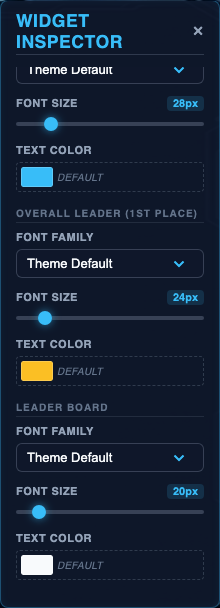
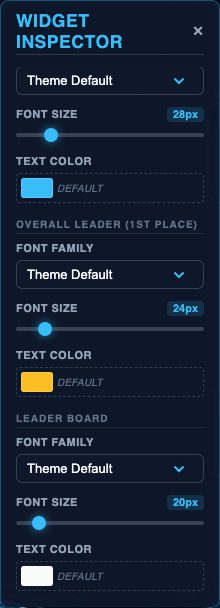
Added decimal control for the leader board widget

diff --git a/client/src/app/components/ui-editor/widget-inspector-fields/leaderboard-inspector/testing/leaderboard-inspector.harness.ts b/client/src/app/components/ui-editor/widget-inspector-fields/leaderboard-inspector/testing/leaderboard-inspector.harness.ts
@@ -21,15 +21,26 @@ export class LeaderboardInspectorHarness
     LeaderboardInspectorHarnessBase.selectors.resetButtons,
   );
 
+  async getDecimalPlaces(): Promise<number> {
+    const selects = await this.getSelects();
+    return Number(await selects[0].getProperty("value"));
+  }
+
+  async setDecimalPlaces(val: number): Promise<void> {
+    const selects = await this.getSelects();
+    await selects[0].sendKeys(val.toString());
+    await selects[0].dispatchEvent("change");
+  }
+
   async getTitleFontFamily(): Promise<string> {
     const selects = await this.getSelects();
-    return await selects[0].getProperty("value");
+    return await selects[1].getProperty("value");
   }
 
   async setTitleFontFamily(val: string): Promise<void> {
     const selects = await this.getSelects();
-    await selects[0].sendKeys(val);
-    await selects[0].dispatchEvent("change");
+    await selects[1].sendKeys(val);
+    await selects[1].dispatchEvent("change");
   }
 
   async getTitleFontSize(): Promise<number> {
@@ -64,13 +75,13 @@ export class LeaderboardInspectorHarness
 
   async getOverallLeaderFontFamily(): Promise<string> {
     const selects = await this.getSelects();
-    return await selects[1].getProperty("value");
+    return await selects[2].getProperty("value");
   }
 
   async setOverallLeaderFontFamily(val: string): Promise<void> {
     const selects = await this.getSelects();
-    await selects[1].sendKeys(val);
-    await selects[1].dispatchEvent("change");
+    await selects[2].sendKeys(val);
+    await selects[2].dispatchEvent("change");
   }
 
   async getOverallLeaderFontSize(): Promise<number> {
@@ -107,13 +118,13 @@ export class LeaderboardInspectorHarness
 
   async getRestFontFamily(): Promise<string> {
     const selects = await this.getSelects();
-    return await selects[2].getProperty("value");
+    return await selects[3].getProperty("value");
   }
 
   async setRestFontFamily(val: string): Promise<void> {
     const selects = await this.getSelects();
-    await selects[2].sendKeys(val);
-    await selects[2].dispatchEvent("change");
+    await selects[3].sendKeys(val);
+    await selects[3].dispatchEvent("change");
   }
 
   async getRestFontSize(): Promise<number> {

diff --git a/client/src/app/components/ui-editor/widget-inspector-fields/leaderboard-inspector/testing/leaderboard-inspector.harness.e2e.ts b/client/src/app/components/ui-editor/widget-inspector-fields/leaderboard-inspector/testing/leaderboard-inspector.harness.e2e.ts
@@ -25,12 +25,21 @@ export class LeaderboardInspectorHarnessE2e implements LeaderboardInspectorHarne
     return this.locator.locator(this.base.selectors.resetButtons);
   }
 
+  async getDecimalPlaces(): Promise<number> {
+    const val = await this.selects.nth(0).inputValue();
+    return Number(val);
+  }
+
+  async setDecimalPlaces(val: number): Promise<void> {
+    await this.selects.nth(0).selectOption({ value: val.toString() });
+  }
+
   async getTitleFontFamily(): Promise<string> {
-    return await this.selects.nth(0).inputValue();
+    return await this.selects.nth(1).inputValue();
   }
 
   async setTitleFontFamily(val: string): Promise<void> {
-    await this.selects.nth(0).selectOption({ label: val });
+    await this.selects.nth(1).selectOption({ label: val });
   }
 
   async getTitleFontSize(): Promise<number> {
@@ -55,11 +64,11 @@ export class LeaderboardInspectorHarnessE2e implements LeaderboardInspectorHarne
   }
 
   async getOverallLeaderFontFamily(): Promise<string> {
-    return await this.selects.nth(1).inputValue();
+    return await this.selects.nth(2).inputValue();
   }
 
   async setOverallLeaderFontFamily(val: string): Promise<void> {
-    await this.selects.nth(1).selectOption({ label: val });
+    await this.selects.nth(2).selectOption({ label: val });
   }
 
   async getOverallLeaderFontSize(): Promise<number> {
@@ -89,11 +98,11 @@ export class LeaderboardInspectorHarnessE2e implements LeaderboardInspectorHarne
   }
 
   async getRestFontFamily(): Promise<string> {
-    return await this.selects.nth(2).inputValue();
+    return await this.selects.nth(3).inputValue();
   }
 
   async setRestFontFamily(val: string): Promise<void> {
-    await this.selects.nth(2).selectOption({ label: val });
+    await this.selects.nth(3).selectOption({ label: val });
   }
 
   async getRestFontSize(): Promise<number> {

diff --git a/client/src/app/components/ui-editor/widget-inspector-fields/leaderboard-inspector/leaderboard-inspector.component.html b/client/src/app/components/ui-editor/widget-inspector-fields/leaderboard-inspector/leaderboard-inspector.component.html
@@ -1,4 +1,22 @@
 @if (settings()) {
+  <!-- Decimal Places -->
+  <div class="inspector-section">
+    <label class="inspector-label">{{
+      "UE_INSPECTOR_DECIMAL_PLACES" | translate
+    }}</label>
+    <div class="select-container select-sm">
+      <select
+        [(ngModel)]="settings().decimalPlaces"
+        (change)="onSettingsChange()"
+      >
+        <option [value]="0">0</option>
+        <option [value]="1">1</option>
+        <option [value]="2">2</option>
+        <option [value]="3">3</option>
+      </select>
+    </div>
+  </div>
+
   <!-- Title Section -->
   <div class="inspector-geometry-title">
     {{ "UE_INSPECTOR_LEADERBOARD_TITLE" | translate }}

diff --git a/client/src/app/components/ui-editor/widget-inspector-fields/leaderboard-inspector/leaderboard-inspector.component.spec.ts b/client/src/app/components/ui-editor/widget-inspector-fields/leaderboard-inspector/leaderboard-inspector.component.spec.ts
@@ -28,6 +28,7 @@ describe("LeaderboardInspectorComponent", () => {
 
     // Set required input
     fixture.componentRef.setInput("settings", {
+      decimalPlaces: 3,
       titleFontFamily: "",
       titleFontSize: 18,
       titleTextColor: "",
@@ -72,8 +73,17 @@ describe("LeaderboardInspectorComponent", () => {
   });
 
   it("should trigger loadLocalFonts on font service when select element is focused", () => {
-    const selectEl = fixture.nativeElement.querySelector("select");
+    const selectEl = fixture.nativeElement.querySelectorAll("select")[1];
     selectEl.dispatchEvent(new Event("focus"));
     expect(fontServiceSpy.loadLocalFonts).toHaveBeenCalled();
+  });
+
+  it("should bind decimalPlaces and emit change on selection", () => {
+    const selectEl = fixture.nativeElement.querySelectorAll("select")[0];
+    selectEl.value = "2";
+    selectEl.dispatchEvent(new Event("change"));
+    fixture.detectChanges();
+    expect(Number(component.settings().decimalPlaces)).toBe(2);
+    expect(changeSpy).toHaveBeenCalled();
   });
 });

diff --git a/client/src/app/components/raceday/components/raceday-leaderboard/raceday-leaderboard.component.ts b/client/src/app/components/raceday/components/raceday-leaderboard/raceday-leaderboard.component.ts
@@ -32,6 +32,11 @@ export class RacedayLeaderboardComponent {
   }
 
   getLeaderboardScoreFormat(entry: any): string {
+    const customDecimals = this.widget()?.customSettings?.["decimalPlaces"];
+    if (customDecimals !== undefined && customDecimals !== null) {
+      const d = Math.min(3, Math.max(0, Number(customDecimals)));
+      return `1.${d}-${d}`;
+    }
     if (!entry) return "1.0-0";
     if (entry.isTime !== undefined) {
       return entry.isTime ? "1.3-3" : "1.2-2";

diff --git a/client/src/app/components/ui-editor/widget-inspector-fields/leaderboard-inspector/testing/leaderboard-inspector.harness.base.ts b/client/src/app/components/ui-editor/widget-inspector-fields/leaderboard-inspector/testing/leaderboard-inspector.harness.base.ts
@@ -8,6 +8,9 @@ export abstract class LeaderboardInspectorHarnessBase {
     resetButtons: ".color-reset-btn",
   };
 
+  abstract getDecimalPlaces(): Promise<number>;
+  abstract setDecimalPlaces(val: number): Promise<void>;
+
   abstract getTitleFontFamily(): Promise<string>;
   abstract setTitleFontFamily(val: string): Promise<void>;
   abstract getTitleFontSize(): Promise<number>;

diff --git a/client/src/app/components/ui-editor/widget-inspector-fields/leaderboard-inspector/leaderboard-inspector_screendiff_test.ts b/client/src/app/components/ui-editor/widget-inspector-fields/leaderboard-inspector/leaderboard-inspector_screendiff_test.ts
@@ -50,6 +50,7 @@ test.describe("Leaderboard Inspector Visuals", () => {
 
     const harness = new LeaderboardInspectorHarnessE2e(inspectorFields);
     // Interact with options to show they work and are displayed properly
+    await harness.setDecimalPlaces(1);
     await harness.setTitleFontSize(28);
     await harness.setOverallLeaderFontSize(24);
     await harness.setRestFontSize(20);

diff --git a/client/src/app/components/ui-editor/widget-registry.ts b/client/src/app/components/ui-editor/widget-registry.ts
@@ -5,6 +5,7 @@ export interface WidgetRegistryEntry {
 export const WIDGET_REGISTRY: Record<string, WidgetRegistryEntry> = {
   leaderboard: {
     defaultSettings: () => ({
+      decimalPlaces: 3,
       titleFontFamily: "",
       titleFontSize: 18,
       titleTextColor: "",